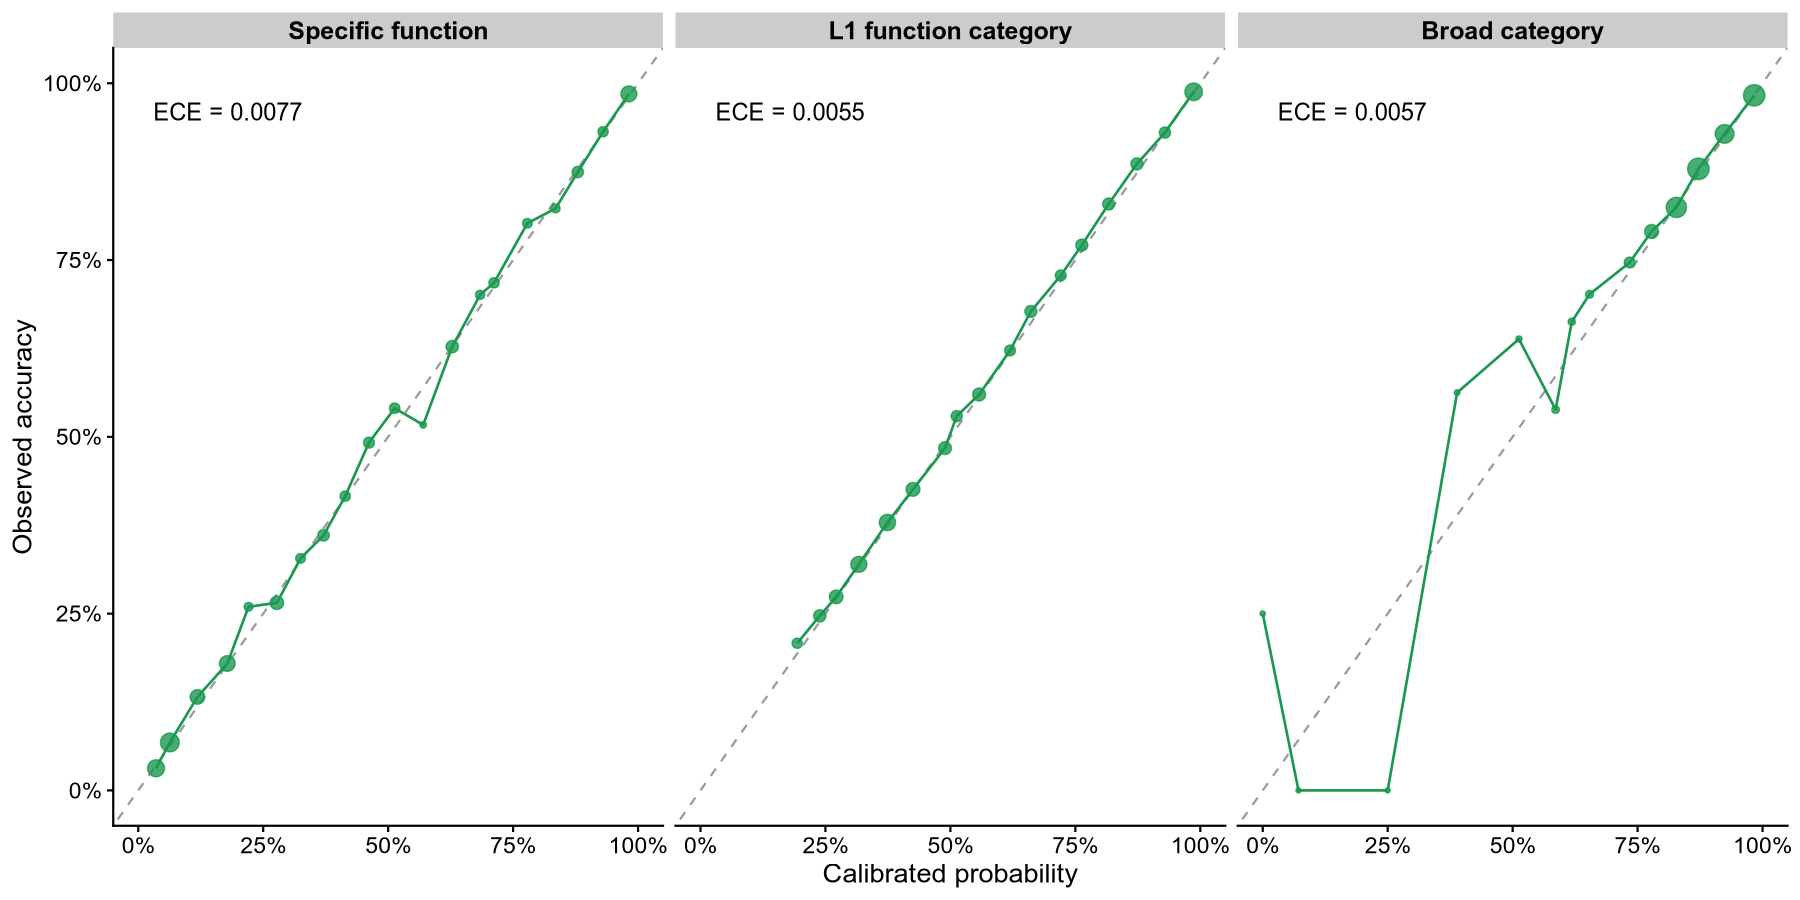
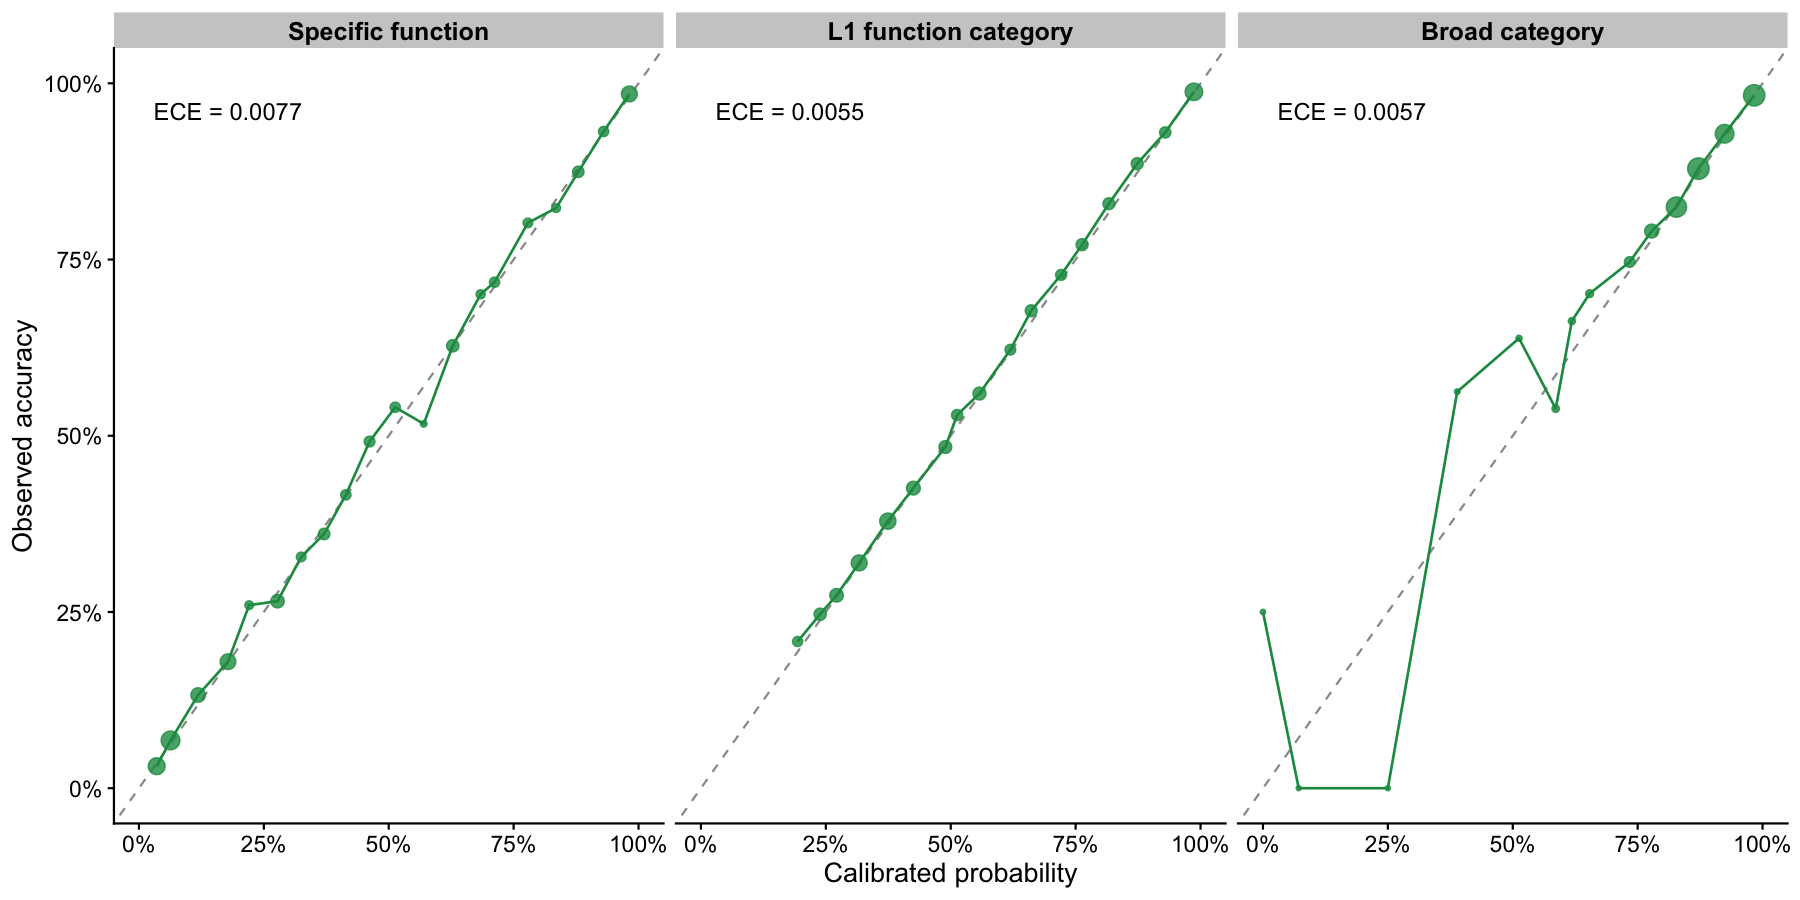
Save the Extended Data Figure 9 composite with the knitted png device so its text and strip labels match the knitted figure

diff --git a/notebooks/functional_propagation_figures.md b/notebooks/functional_propagation_figures.md
@@ -1,13 +1,15 @@
 Functional label propagation
 ================
 James C. Kosmopoulos
-2026-09-22
+2026-10-29
 
 ``` r
 knitr::opts_chunk$set(echo = TRUE, warning = FALSE, message = FALSE, fig.width = 10, fig.height = 6, dpi = 150)
 
 library("arrow");packageVersion("arrow")
 ```
+
+    ## Warning: package 'arrow' was built under R version 4.4.3
 
     ## 
     ## Attaching package: 'arrow'
@@ -16,20 +18,26 @@ library("arrow");packageVersion("arrow")
     ## 
     ##     timestamp
 
-    ## [1] '13.0.0'
+    ## [1] '22.0.0.1'
 
 ``` r
 library("tidyverse");packageVersion("tidyverse")
 ```
 
-    ## ── Attaching core tidyverse packages ──────────────────────────────────────────────────────────────────────────────────────────────────────── tidyverse 2.0.0 ──
+    ## Warning: package 'tibble' was built under R version 4.4.3
+
+    ## Warning: package 'tidyr' was built under R version 4.4.3
+
+    ## Warning: package 'purrr' was built under R version 4.4.3
+
+    ## ── Attaching core tidyverse packages ──────────────────────── tidyverse 2.0.0 ──
     ## ✔ dplyr     1.1.4     ✔ readr     2.1.5
     ## ✔ forcats   1.0.0     ✔ stringr   1.5.1
-    ## ✔ ggplot2   3.5.2     ✔ tibble    3.2.1
-    ## ✔ lubridate 1.9.4     ✔ tidyr     1.3.1
-    ## ✔ purrr     1.0.4
+    ## ✔ ggplot2   3.5.2     ✔ tibble    3.3.1
+    ## ✔ lubridate 1.9.3     ✔ tidyr     1.3.2
+    ## ✔ purrr     1.2.1
 
-    ## ── Conflicts ────────────────────────────────────────────────────────────────────────────────────────────────────────────────────────── tidyverse_conflicts() ──
+    ## ── Conflicts ────────────────────────────────────────── tidyverse_conflicts() ──
     ## ✖ lubridate::duration() masks arrow::duration()
     ## ✖ dplyr::filter()       masks stats::filter()
     ## ✖ dplyr::lag()          masks stats::lag()
@@ -54,6 +62,8 @@ library("cowplot");packageVersion("cowplot")
 library("scales");packageVersion("scales")
 ```
 
+    ## Warning: package 'scales' was built under R version 4.4.1
+
     ## 
     ## Attaching package: 'scales'
     ## 
@@ -71,6 +81,8 @@ library("scales");packageVersion("scales")
 library("patchwork");packageVersion("patchwork")
 ```
 
+    ## Warning: package 'patchwork' was built under R version 4.4.1
+
     ## 
     ## Attaching package: 'patchwork'
     ## 
@@ -83,6 +95,8 @@ library("patchwork");packageVersion("patchwork")
 ``` r
 library("jsonlite");packageVersion("jsonlite")
 ```
+
+    ## Warning: package 'jsonlite' was built under R version 4.4.1
 
     ## 
     ## Attaching package: 'jsonlite'
@@ -107,8 +121,8 @@ TARGET <- MANIFEST$primary_target
 
 prop  <- function(name) read_parquet(file.path(PROP_DIR, paste0(name, ".parquet")))
 novel <- function(name) read_parquet(file.path(NOVEL_DIR, paste0(name, ".parquet")))
-save_plot_both <- function(p, stem, w, h, dpi = 600, bg = "white") {
-  ggsave(file.path(PLOT_DIR, paste0(stem, ".png")), p, width = w, height = h, units = "in", dpi = dpi, bg = bg)
+save_plot_both <- function(p, stem, w, h, dpi = 600, bg = "white", ...) {
+  ggsave(file.path(PLOT_DIR, paste0(stem, ".png")), p, width = w, height = h, units = "in", dpi = dpi, bg = bg, ...)
   invisible(p)
 }
 ```
@@ -301,9 +315,6 @@ app <- app %>% mutate(subset = factor(subset, levels = SUB_LVL))
 p_tier_assignment_depth <- ggplot(app, aes(frac, fct_rev(final_level), fill = label_source)) +
   geom_col(width = 0.72, color = "black", linewidth = 0.2) +
   geom_text(aes(label = ifelse(frac >= 0.02, comma(n), ""),
-                # vjust = case_when(label_source == "cluster" ~ -0.28,
-                #                   label_source == "embedding" ~ 1.28,
-                #                   TRUE ~ 0.5)
                 ),
             position = position_stack(vjust = 0.5), size = 2.6) +
   facet_wrap(~ subset, nrow = 1, labeller = as_labeller(sub_labs)) +
@@ -340,7 +351,6 @@ p_precision_vs_seq_id <- strat %>%
   theme(
     axis.text.x = element_text(angle = 45, hjust = 1),
     legend.position = "bottom",
-    # legend.location = "plot",
     legend.direction = "vertical",
     legend.text = element_text(size = 9.5),
     legend.key.size = unit(0.32, "cm"),
@@ -431,7 +441,9 @@ p_comp <- p_comp +
   theme(plot.tag = element_text(size = 16, face = "bold", hjust = 0, vjust = 1),
         plot.tag.position = "topleft", plot.tag.location = "margin")
 
-save_plot_both(p_comp, "functional_propagation_supplement", w = 16, h = 16)
+# ggsave defaults to ragg, whose text metrics differ from the knitr png device and clip the H and I strip labels
+save_plot_both(p_comp, "functional_propagation_supplement", w = 16, h = 16,
+               device = grDevices::png, type = getOption("bitmapType"))
 print(p_comp)
 ```
 
@@ -474,15 +486,15 @@ knitr::kable(supp, digits = 4)
 SRC_DIR <- file.path(PROP_DIR, "source_data")
 dir.create(SRC_DIR, showWarnings = FALSE, recursive = TRUE)
 
-readr::write_csv(sweep,    file.path(SRC_DIR, "edfig9A_target_sweep.csv"))
-readr::write_csv(rc,       file.path(SRC_DIR, "edfig9B_risk_coverage.csv"))
-readr::write_csv(rel,      file.path(SRC_DIR, "edfig9C_reliability.csv"))
+readr::write_csv(tstrat,   file.path(SRC_DIR, "edfig9A_tier_by_identity.csv"))
+readr::write_csv(ovl,      file.path(SRC_DIR, "edfig9B_tier_reach_overlap.csv"))
+readr::write_csv(ctrl,     file.path(SRC_DIR, "edfig9C_validation_controls.csv"))
+readr::write_csv(hi_sweep, file.path(SRC_DIR, "edfig9D_applied_target_sweep.csv"))
+readr::write_csv(app,      file.path(SRC_DIR, "edfig9E_applied_label_source.csv"))
 readr::write_csv(strat,    file.path(SRC_DIR, "edfig9F_precision_by_identity_band.csv"))
-readr::write_csv(ovl,      file.path(SRC_DIR, "edfig9D_tier_reach_overlap.csv"))
-readr::write_csv(tstrat,   file.path(SRC_DIR, "edfig9E_tier_by_identity.csv"))
-readr::write_csv(app,      file.path(SRC_DIR, "edfig9G_applied_label_source.csv"))
-readr::write_csv(hi_sweep, file.path(SRC_DIR, "edfig9H_applied_target_sweep.csv"))
-readr::write_csv(ctrl,     file.path(SRC_DIR, "edfig9I_validation_controls.csv"))
+readr::write_csv(sweep,    file.path(SRC_DIR, "edfig9G_target_sweep.csv"))
+readr::write_csv(rc,       file.path(SRC_DIR, "edfig9H_risk_coverage.csv"))
+readr::write_csv(rel,      file.path(SRC_DIR, "edfig9I_reliability.csv"))
 
 readr::write_csv(joint,    file.path(SRC_DIR, "edfig9_extra_identity_by_distance.csv"))
 cat(sprintf("source data written to %s\n", SRC_DIR))
@@ -501,15 +513,15 @@ print(tibble::tibble(
     ##    file                                    rows
     ##    <chr>                                  <int>
     ##  1 edfig9_extra_identity_by_distance.csv     23
-    ##  2 edfig9A_target_sweep.csv                  36
-    ##  3 edfig9B_risk_coverage.csv               2424
-    ##  4 edfig9C_reliability.csv                   51
-    ##  5 edfig9D_tier_reach_overlap.csv            12
-    ##  6 edfig9E_tier_by_identity.csv              12
+    ##  2 edfig9A_tier_by_identity.csv              12
+    ##  3 edfig9B_tier_reach_overlap.csv            12
+    ##  4 edfig9C_validation_controls.csv            9
+    ##  5 edfig9D_applied_target_sweep.csv          36
+    ##  6 edfig9E_applied_label_source.csv          20
     ##  7 edfig9F_precision_by_identity_band.csv     8
-    ##  8 edfig9G_applied_label_source.csv          20
-    ##  9 edfig9H_applied_target_sweep.csv          36
-    ## 10 edfig9I_validation_controls.csv            9
+    ##  8 edfig9G_target_sweep.csv                  36
+    ##  9 edfig9H_risk_coverage.csv               2424
+    ## 10 edfig9I_reliability.csv                   51
 
 ``` r
 supp_dir <- PROP_DIR
@@ -562,42 +574,37 @@ readr::write_csv(summary_table, file.path(PROP_DIR, "propagation_evaluation.csv"
 sessionInfo()
 ```
 
-    ## R version 4.3.3 (2024-02-29)
-    ## Platform: x86_64-conda-linux-gnu (64-bit)
-    ## Running under: Ubuntu 20.04.6 LTS
+    ## R version 4.4.0 (2024-04-24)
+    ## Platform: aarch64-apple-darwin20
+    ## Running under: macOS 26.6.2
     ## 
     ## Matrix products: default
-    ## BLAS/LAPACK: /storage2/scratch/kosmopoulos/miniconda3/envs/peatlands_env/lib/libopenblasp-r0.3.21.so;  LAPACK version 3.9.0
+    ## BLAS:   /Library/Frameworks/R.framework/Versions/4.4-arm64/Resources/lib/libRblas.0.dylib 
+    ## LAPACK: /Library/Frameworks/R.framework/Versions/4.4-arm64/Resources/lib/libRlapack.dylib;  LAPACK version 3.12.0
     ## 
     ## locale:
-    ##  [1] LC_CTYPE=en_US.UTF-8       LC_NUMERIC=C              
-    ##  [3] LC_TIME=en_US.UTF-8        LC_COLLATE=en_US.UTF-8    
-    ##  [5] LC_MONETARY=en_US.UTF-8    LC_MESSAGES=en_US.UTF-8   
-    ##  [7] LC_PAPER=en_US.UTF-8       LC_NAME=C                 
-    ##  [9] LC_ADDRESS=C               LC_TELEPHONE=C            
-    ## [11] LC_MEASUREMENT=en_US.UTF-8 LC_IDENTIFICATION=C       
+    ## [1] en_US.UTF-8/en_US.UTF-8/en_US.UTF-8/C/en_US.UTF-8/en_US.UTF-8
     ## 
     ## time zone: America/Chicago
-    ## tzcode source: system (glibc)
+    ## tzcode source: internal
     ## 
     ## attached base packages:
     ## [1] stats     graphics  grDevices utils     datasets  methods   base     
     ## 
     ## other attached packages:
     ##  [1] jsonlite_2.0.0  patchwork_1.3.2 scales_1.4.0    cowplot_1.1.3  
-    ##  [5] lubridate_1.9.4 forcats_1.0.0   stringr_1.5.1   dplyr_1.1.4    
-    ##  [9] purrr_1.0.4     readr_2.1.5     tidyr_1.3.1     tibble_3.2.1   
-    ## [13] ggplot2_3.5.2   tidyverse_2.0.0 arrow_13.0.0   
+    ##  [5] lubridate_1.9.3 forcats_1.0.0   stringr_1.5.1   dplyr_1.1.4    
+    ##  [9] purrr_1.2.1     readr_2.1.5     tidyr_1.3.2     tibble_3.3.1   
+    ## [13] ggplot2_3.5.2   tidyverse_2.0.0 arrow_22.0.0.1 
     ## 
     ## loaded via a namespace (and not attached):
-    ##  [1] utf8_1.2.4         generics_0.1.3     stringi_1.8.7      hms_1.1.3         
-    ##  [5] digest_0.6.37      magrittr_2.0.3     evaluate_1.0.3     grid_4.3.3        
-    ##  [9] timechange_0.3.0   RColorBrewer_1.1-3 fastmap_1.2.0      textshaping_0.3.7 
-    ## [13] cli_3.6.4          rlang_1.2.0        crayon_1.5.3       bit64_4.6.0-1     
-    ## [17] withr_3.0.2        yaml_2.3.10        parallel_4.3.3     tools_4.3.3       
-    ## [21] tzdb_0.5.0         assertthat_0.2.1   vctrs_0.6.5        R6_2.6.1          
-    ## [25] lifecycle_1.0.4    bit_4.6.0          vroom_1.6.5        ragg_1.3.3        
-    ## [29] pkgconfig_2.0.3    pillar_1.10.2      gtable_0.3.6       glue_1.8.0        
-    ## [33] systemfonts_1.2.1  xfun_0.52          tidyselect_1.2.1   knitr_1.50        
-    ## [37] farver_2.1.2       htmltools_0.5.8.1  rmarkdown_2.29     labeling_0.4.3    
-    ## [41] compiler_4.3.3
+    ##  [1] utf8_1.2.4         generics_0.1.3     stringi_1.8.4      hms_1.1.3         
+    ##  [5] digest_0.6.37      magrittr_2.0.4     evaluate_1.0.5     grid_4.4.0        
+    ##  [9] timechange_0.3.0   RColorBrewer_1.1-3 fastmap_1.2.0      fansi_1.0.6       
+    ## [13] cli_3.6.5          rlang_1.1.7        crayon_1.5.3       bit64_4.5.2       
+    ## [17] withr_3.0.2        yaml_2.3.10        parallel_4.4.0     tools_4.4.0       
+    ## [21] tzdb_0.4.0         assertthat_0.2.1   vctrs_0.6.5        R6_2.6.1          
+    ## [25] lifecycle_1.0.5    bit_4.5.0          vroom_1.6.5        pkgconfig_2.0.3   
+    ## [29] pillar_1.9.0       gtable_0.3.6       glue_1.8.0         xfun_0.48         
+    ## [33] tidyselect_1.2.1   highr_0.11         knitr_1.48         farver_2.1.2      
+    ## [37] htmltools_0.5.8.1  rmarkdown_2.28     labeling_0.4.3     compiler_4.4.0
